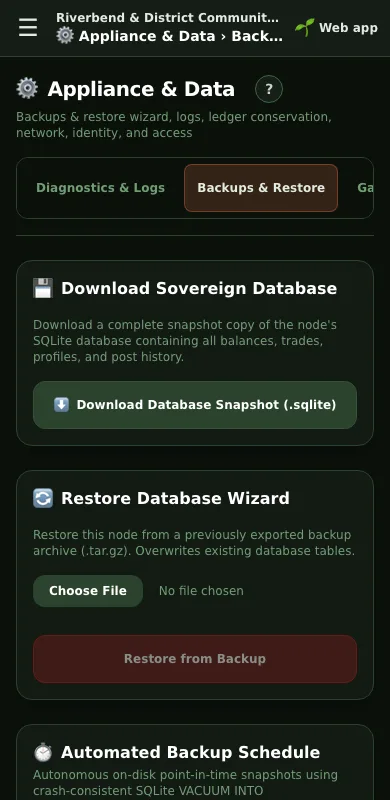
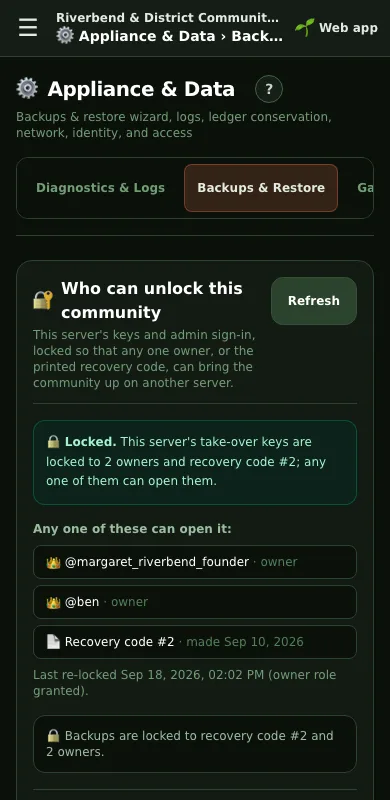
docs(manual): the Backups & Restore picture shows the new card, under Who can unlock this community; operator manual v22

Changed region(s): [[0.0615, 0.3438, 0.9231, 0.875], [0.0615, 0.9062, 0.8615, 1.0]]

diff --git a/packages/beanpool-guide/operators/server/backups-and-replicas.md b/packages/beanpool-guide/operators/server/backups-and-replicas.md
@@ -29,6 +29,8 @@ A server with no recovery code says so every time. The download carries the word
 
 **Appliance & Data**, then **Backups & Restore**. The first card shows:
 
+![The Who can unlock this community card in Settings](images/appliance-backups.webp)
+
 - **Locked** (green), and who can open the server's take-over keys: each owner by name, and the recovery code by its number. Any one of them alone is enough. Under it, when the keys were last locked again and why (an owner added or removed, a new code, a changed setting).
 - **Not locked yet** (amber), and why: no owner and no recovery code, or the server has not made its keys yet. Make someone an owner, or make a recovery code.
 - **Error** (red), with the reason. The locked copy from before the change is kept but not handed out.
@@ -66,8 +68,6 @@ curl -k -X POST -H "X-Admin-Password: PASSWORD" -H "Content-Type: application/js
 ## Backups from Settings
 
 **Appliance & Data**, then **Backups & Restore**.
-
-![Backups and restore options in Settings](images/appliance-backups.webp)
 
 **Download Sovereign Database**:
 
